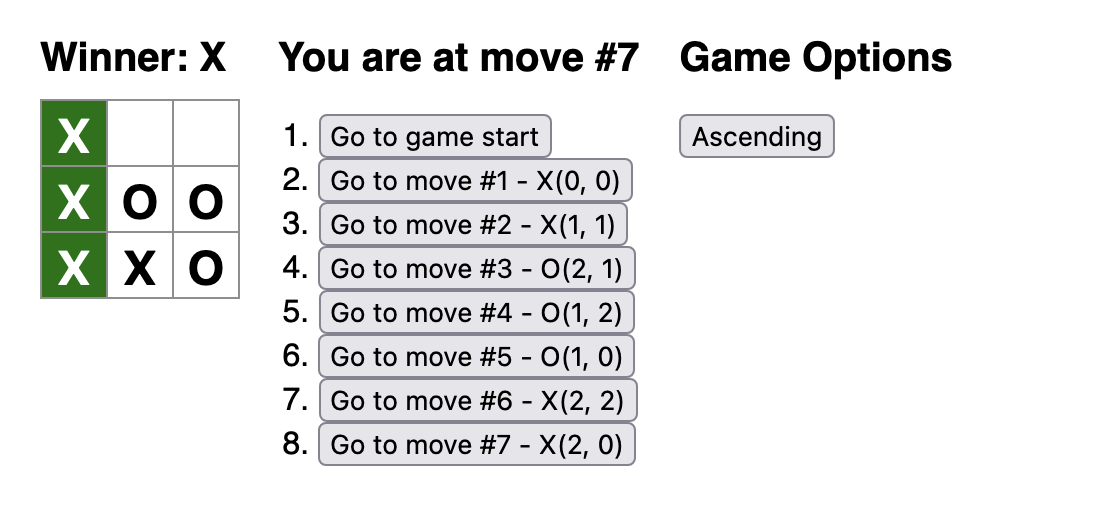
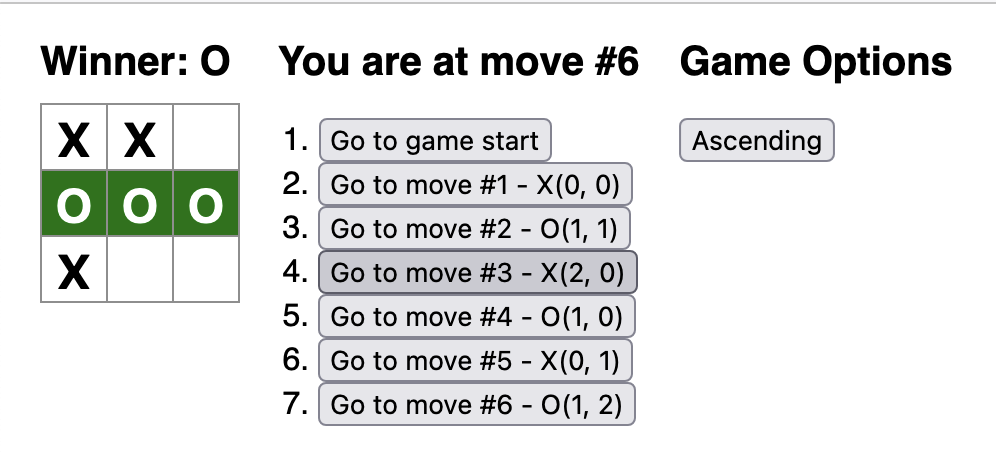
fix: fix player info error in move info

Changed region(s): [[0.0311, 0.0619, 0.9649, 0.9602], [0.0, 0.0, 1.0, 0.031]]

diff --git a/src/App.tsx b/src/App.tsx
@@ -92,7 +92,7 @@ export default function Game() {
     if (move > 0) {
       const row = Math.floor(turnInfo.index / 3);
       const col = turnInfo.index % 3;
-      const player = turnInfo.index % 2 === 0 ? 'X' : 'O';
+      const player = move % 2 === 0 ? 'O' : 'X';
       description = 'Go to move #' + move + ' - ' + player + '(' + row + ', ' + col + ')';
     } else {
       description = 'Go to game start';
